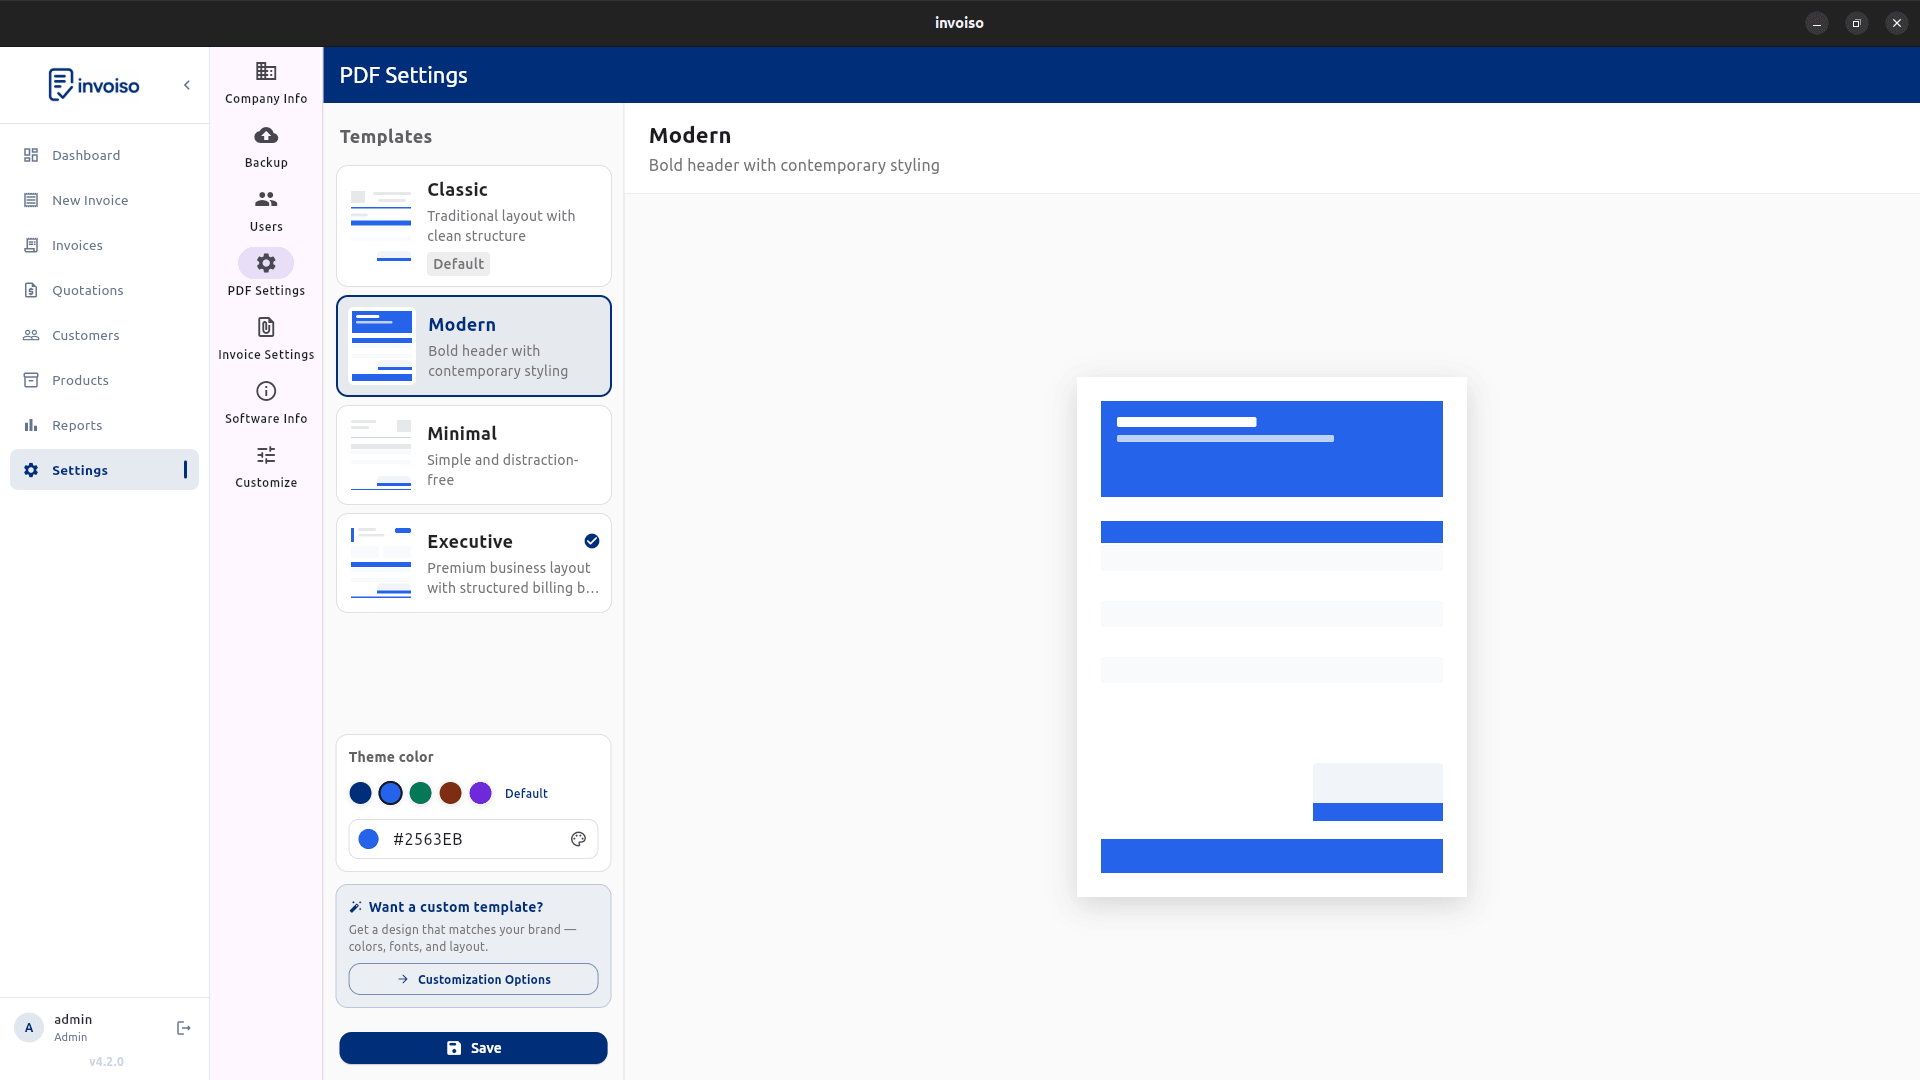
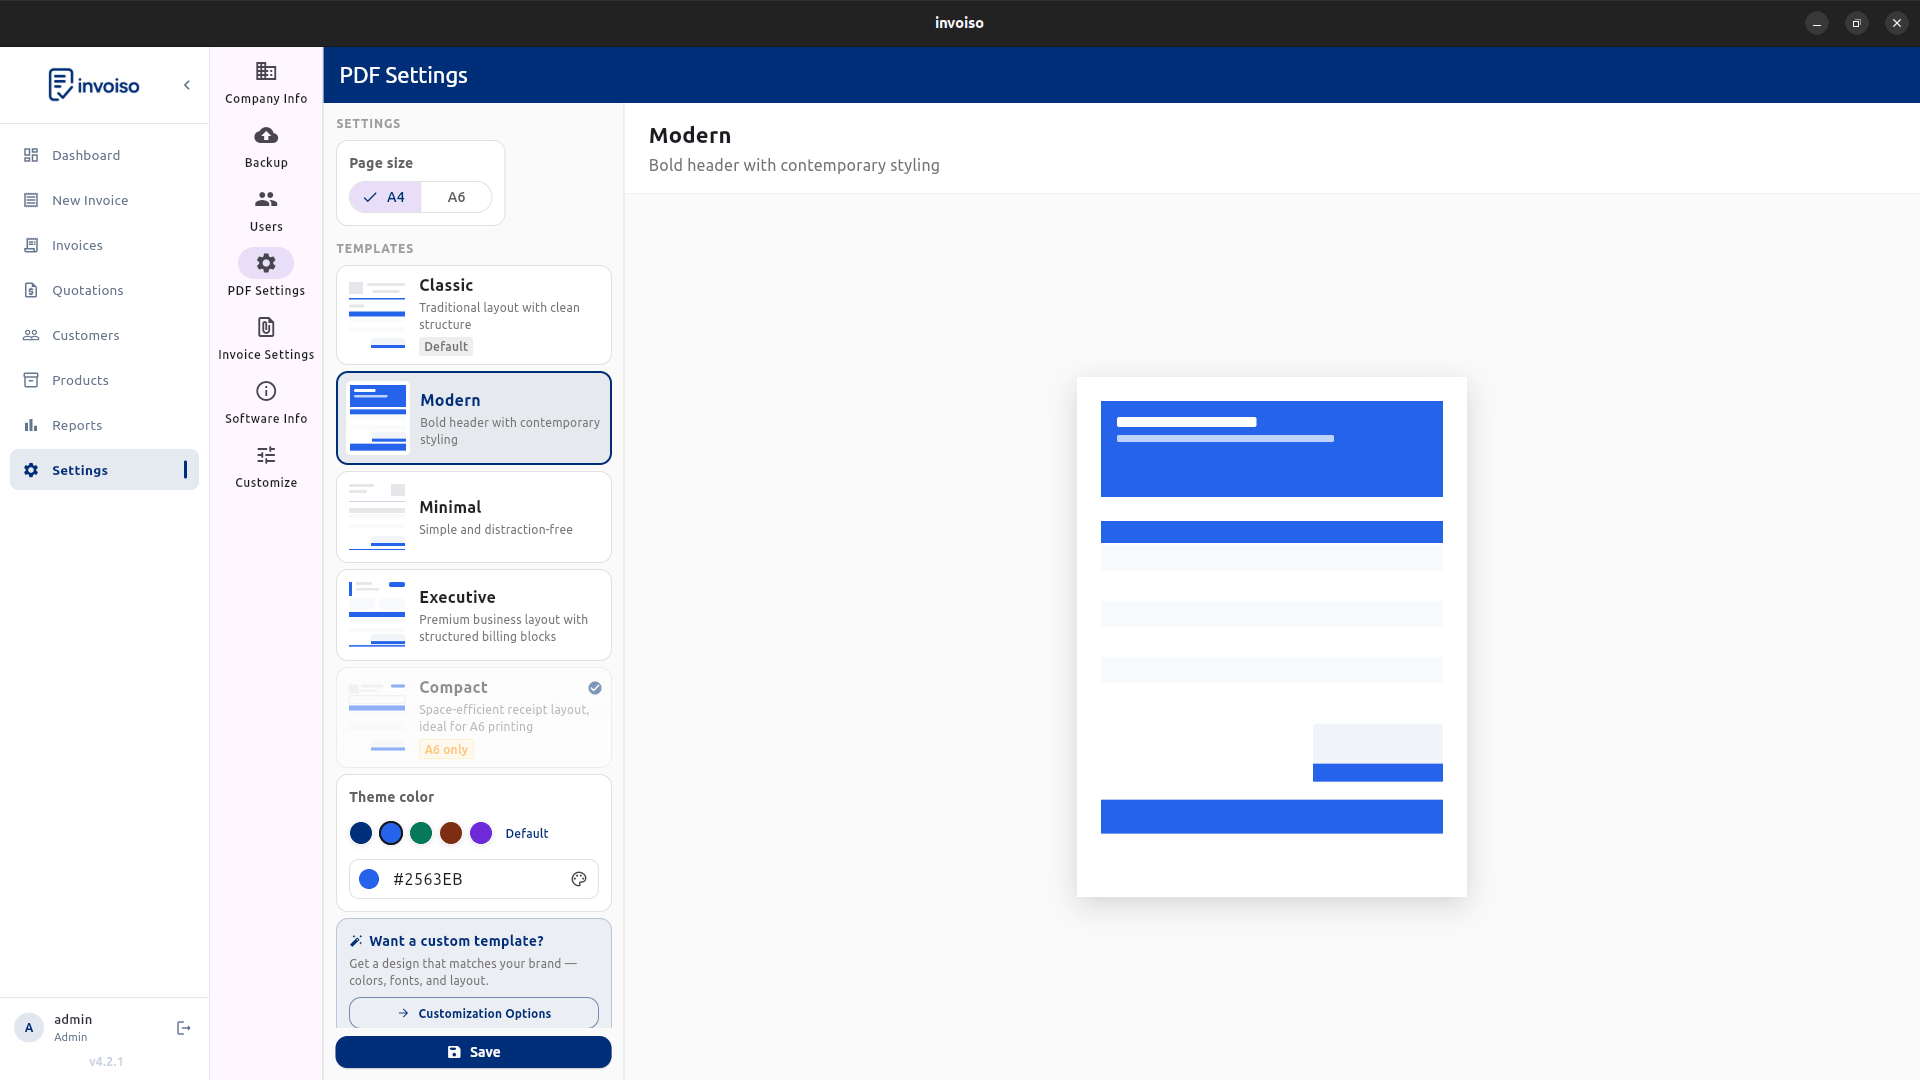
landing page update

Changed region(s): [[0.1562, 0.0917, 0.3438, 1.0], [0.5625, 0.7028, 0.75, 0.825]]

diff --git a/landing/download.html b/landing/download.html
@@ -1016,9 +1016,9 @@
         border: 1px solid rgba(79,142,247,0.3);
         border-radius: 20px;
         box-shadow: 0 0 0 1px rgba(255,255,255,0.04), 0 24px 80px rgba(0,0,0,0.6);
-        max-width: 460px;
+        max-width: 560px;
         width: 100%;
-        padding: 32px 28px 28px;
+        padding: 32px 32px 28px;
         position: relative;
         transform: translateY(20px) scale(0.97);
         transition: transform 0.3s cubic-bezier(0.34,1.56,0.64,1);
@@ -1152,6 +1152,47 @@
         color: #fff;
       }
       .welcome-star-btn .fa-star { color: #fbbf24; }
+
+      .welcome-support-row {
+        display: flex;
+        gap: 10px;
+        flex-wrap: wrap;
+        margin-top: 10px;
+      }
+      .welcome-support-btn {
+        display: inline-flex;
+        align-items: center;
+        gap: 7px;
+        padding: 8px 16px;
+        border-radius: 8px;
+        font-weight: 700;
+        font-size: 0.85rem;
+        text-decoration: none;
+        transition: all 0.2s ease;
+        flex: 1;
+        justify-content: center;
+        min-width: 140px;
+      }
+      .welcome-support-btn.bmc {
+        background: rgba(255,221,0,0.12);
+        border: 1px solid rgba(255,221,0,0.3);
+        color: #fbbf24;
+      }
+      .welcome-support-btn.bmc:hover {
+        background: rgba(255,221,0,0.22);
+        border-color: rgba(255,221,0,0.5);
+        color: #fde68a;
+      }
+      .welcome-support-btn.gh-sponsor {
+        background: rgba(234,74,170,0.1);
+        border: 1px solid rgba(234,74,170,0.25);
+        color: #f472b6;
+      }
+      .welcome-support-btn.gh-sponsor:hover {
+        background: rgba(234,74,170,0.2);
+        border-color: rgba(234,74,170,0.45);
+        color: #fbcfe8;
+      }
 
       .welcome-got-it {
         display: block;
@@ -1900,7 +1941,27 @@
           </div>
         </div>
 
-        <button class="welcome-got-it" id="welcomeGotIt">Got it!</button>
+        <div class="welcome-section">
+          <div class="welcome-section-icon" style="background:rgba(255,221,0,0.08);border-color:rgba(255,221,0,0.2);color:#fbbf24;">
+            <i class="fas fa-heart" aria-hidden="true"></i>
+          </div>
+          <div>
+            <p class="welcome-section-label">Support the Project</p>
+            <div class="welcome-section-body">
+              Invoiso is free and open source. If it saves you time, consider supporting its development — even a small contribution keeps it going.
+              <div class="welcome-support-row">
+                <a href="https://buymeacoffee.com/anoopp" target="_blank" rel="noopener noreferrer" class="welcome-support-btn bmc">
+                  <i class="fas fa-coffee" aria-hidden="true"></i> Buy Me a Coffee
+                </a>
+                <a href="https://github.com/sponsors/anooppandikashala" target="_blank" rel="noopener noreferrer" class="welcome-support-btn gh-sponsor">
+                  <i class="fas fa-heart" aria-hidden="true"></i> GitHub Sponsors
+                </a>
+              </div>
+            </div>
+          </div>
+        </div>
+
+        <button class="welcome-got-it" id="welcomeGotIt">Got it, let's go!</button>
       </div>
     </div>
 

diff --git a/landing/assets/js/app.js b/landing/assets/js/app.js
@@ -154,6 +154,7 @@ function initScreenshots() {
     { src: 'template_executive.png',             text: 'Executive Invoice Template',    alt: 'Executive PDF invoice template with blue header block and professional layout \u2014 Invoiso',             category: 'PDF' },
     { src: 'template_modern.png',                text: 'Modern Invoice Template',       alt: 'Modern PDF invoice template with blue header block and professional layout \u2014 Invoiso',             category: 'PDF' },
     { src: 'template_minimal.png',               text: 'Minimal Invoice Template',      alt: 'Minimal PDF invoice template \u2014 clean, simple and distraction-free design \u2014 Invoiso',           category: 'PDF' },
+    { src: 'template_compact_a6.png',            text: 'A6 Size Compact Invoice Template', alt: 'Compact PDF invoice template \u2014 Space efficient receipt layout design \u2014 Invoiso',           category: 'PDF' },
     { src: 'customer_list.png',                  text: 'Customer Management Page',      alt: 'Customer management screen in Invoiso showing client list with search, sort and edit options',       category: 'Clients' },
     { src: 'edit_customer.png',                  text: 'Customer Editing Page',         alt: 'Edit customer details in Invoiso \u2014 name, email, phone, address and GSTIN fields',                  category: 'Clients' },
     { src: 'product_list.png',                   text: 'Product Management Page',       alt: 'Product management screen in Invoiso showing items with price, stock and HSN code',                  category: 'Products' },